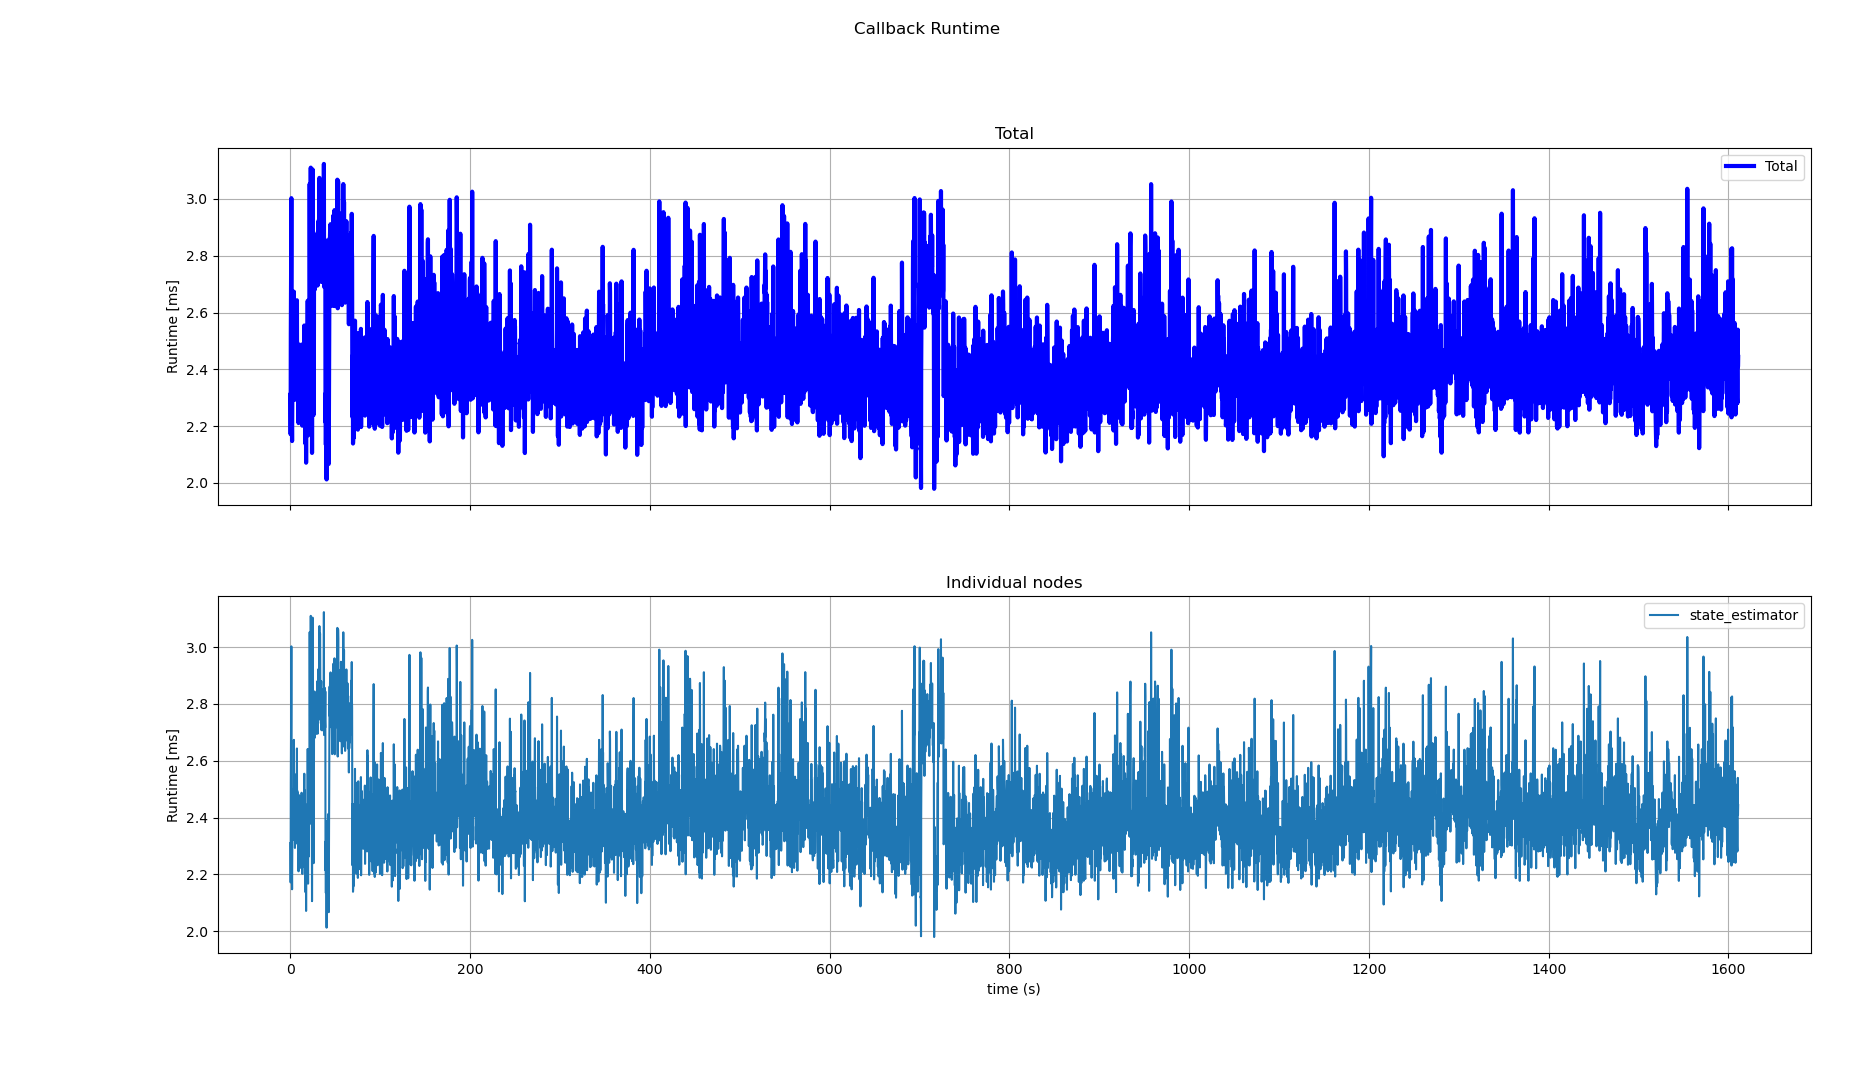
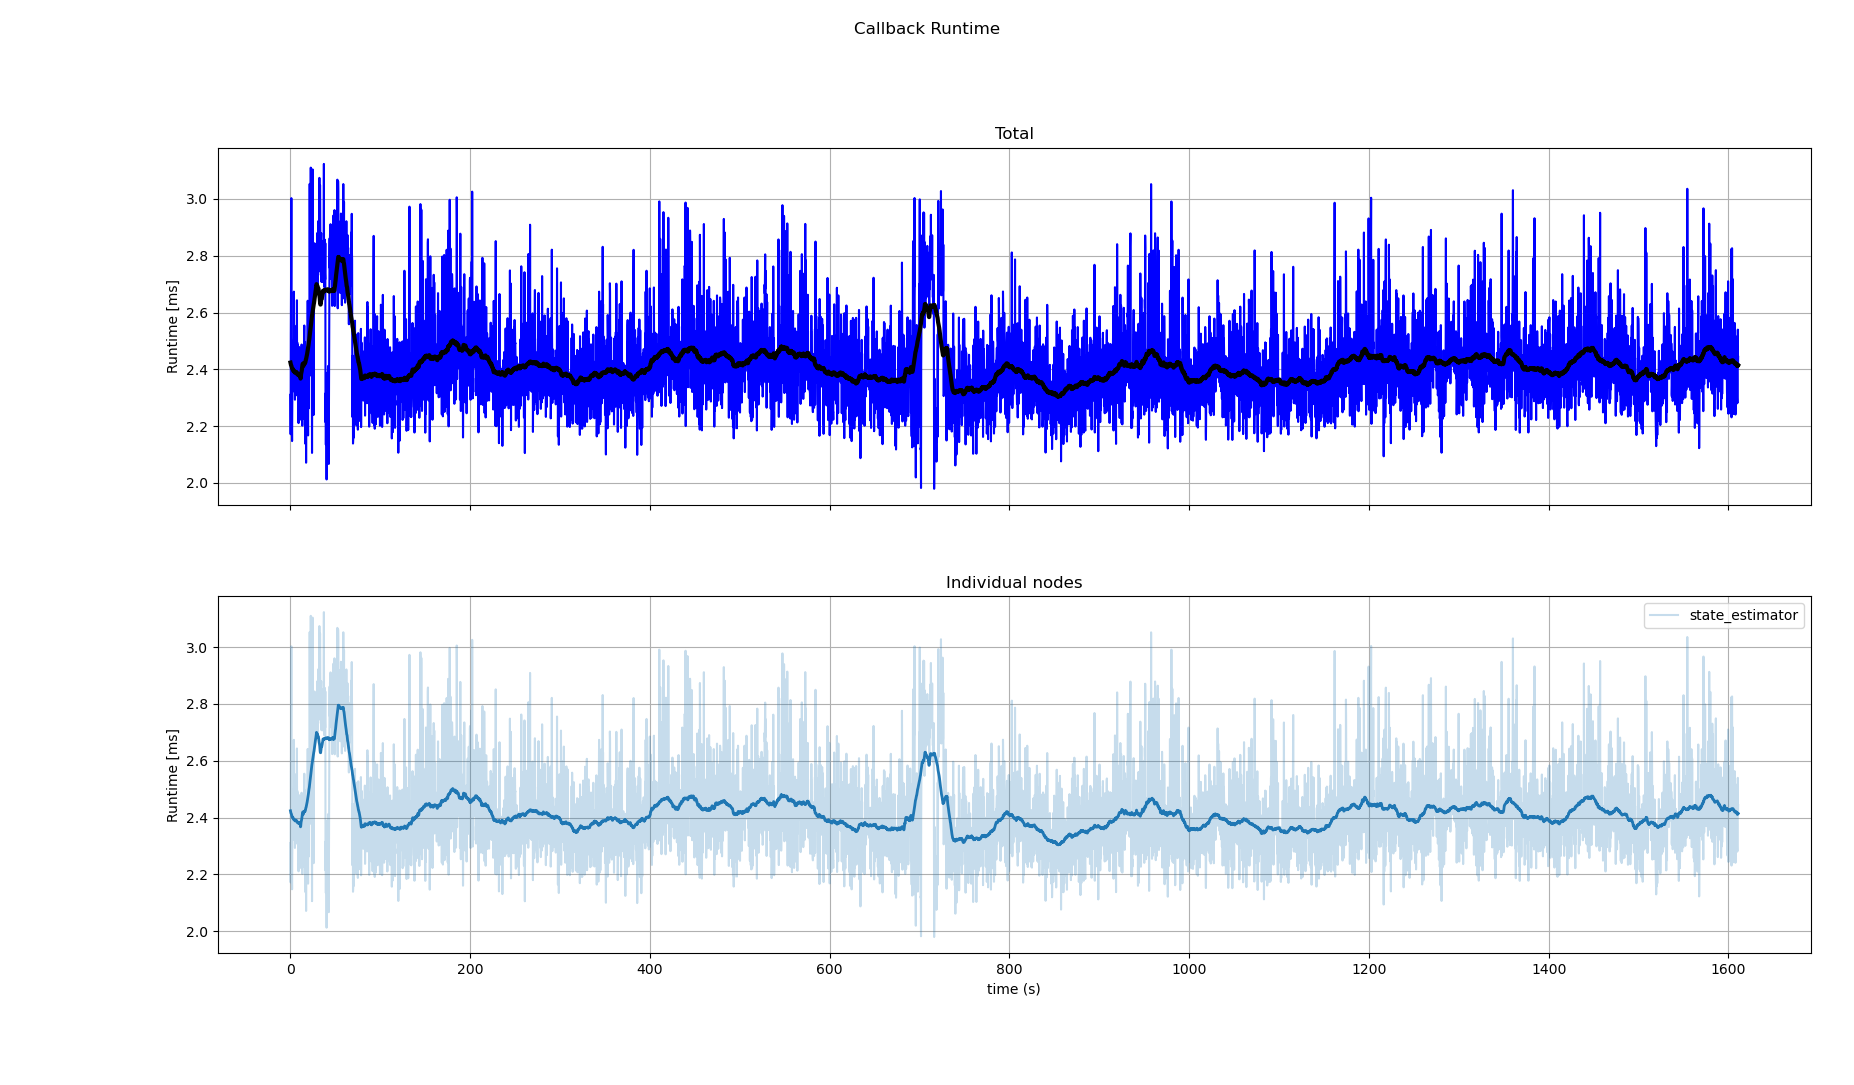
better plots

Changed region(s): [[0.1537, 0.5779, 0.9531, 0.8516], [0.1537, 0.1521, 0.9531, 0.4562]]

diff --git a/analysis/utils.py b/analysis/utils.py
@@ -44,7 +44,25 @@ def load_all_perf(datasets, window):
 
     return data
 
-def plot_metric(data, key, ylabel, title, total_color="black"):
+def add_sliding_mean(ax, x, y, window=100, color="black", linewidth=2.5):
+    x = np.asarray(x)
+    y = np.asarray(y)
+
+    smooth = pd.Series(y).rolling(
+        window=window,
+        center=True,
+        min_periods=window//2
+    ).mean()
+
+    ax.plot(
+        x,
+        smooth,
+        color=color,
+        linewidth=linewidth
+    )
+
+
+def plot_metric(data, key, ylabel, title, total_color="black", window=100):
 
     fig, axes = plt.subplots(2, 1, sharex=True)
     fig.suptitle(title)
@@ -62,24 +80,45 @@ def plot_metric(data, key, ylabel, title, total_color="black"):
         else:
             total += d[key]
 
+        # raw signal (transparent)
         axes[1].plot(
             d["t"],
             d[key],
-            label=name,
-            color=colors[i]
+            color=colors[i],
+            alpha=0.25,
+            label=name
         )
 
+        # sliding mean (strong)
+        add_sliding_mean(
+            axes[1],
+            d["t"],
+            d[key],
+            window=window,
+            color=colors[i],
+            linewidth=2
+        )
+
+    # total raw
     axes[0].plot(
         t,
         total,
-        linewidth=3,
         color=total_color,
-        label="Total"
+        alpha=1.0
+    )
+
+    # total mean
+    add_sliding_mean(
+        axes[0],
+        t,
+        total,
+        window=window,
+        color="black",
+        linewidth=3
     )
 
     axes[0].set_ylabel(ylabel)
     axes[0].set_title("Total")
-    axes[0].legend()
     axes[0].grid(True)
 
     axes[1].set_ylabel(ylabel)
